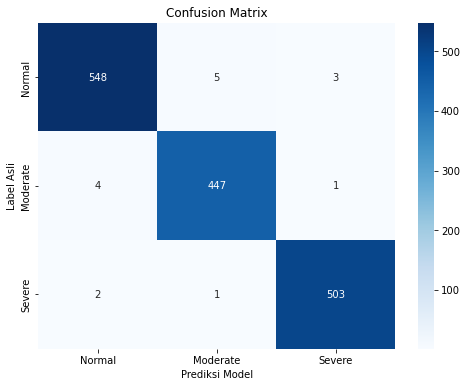
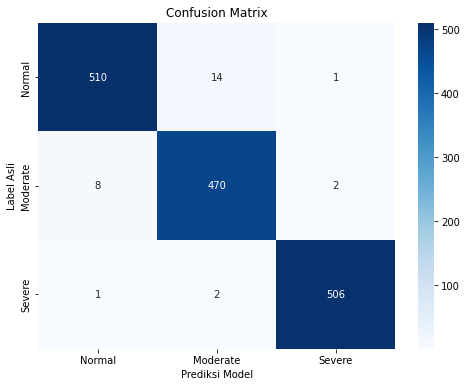
Update evaluation figures and README.md

diff --git a/README.md b/README.md
@@ -29,7 +29,7 @@ An end-to-end AI-powered web application designed to classify depression risk le
 
 ![Confusion Matrix](reports/figures/outputCM.png)
 
-![Training & Evaluation Curves](reports/figures/output.png)
+![Training & Validation Accuracy and Loss Curves](reports/figures/outputgrafiklossdanakurasi.png)
 
 ## 📁 Project Structure
 
